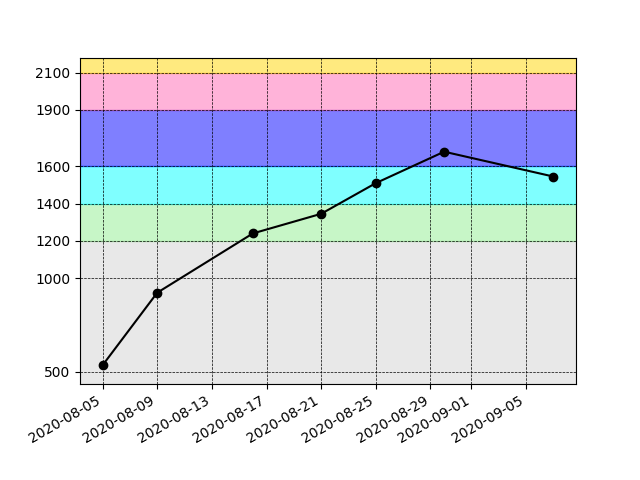
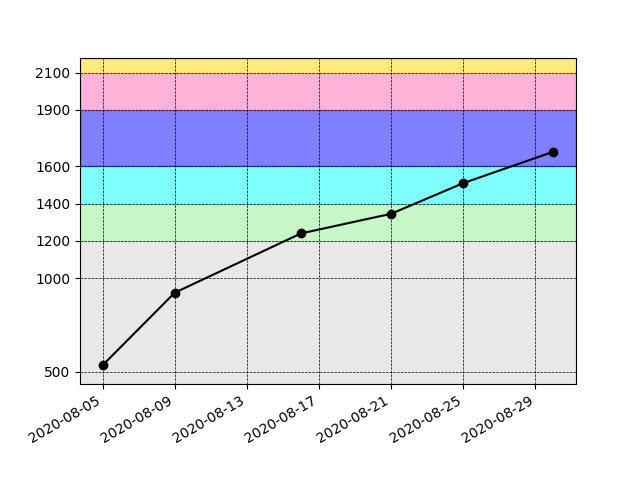
updated front page after rollback

diff --git a/README.md b/README.md
@@ -2,7 +2,7 @@
 
 Transcription of my submissions for the Codeforces contests: [https://codeforces.com](https://codeforces.com)
 
-Handle: [![](https://img.shields.io/badge/Specialist-Zwgtwz-cyan)](https://codeforces.com/profile/Zwgtwz)
+Handle: [![](https://img.shields.io/badge/Expert-Zwgtwz-blue)](https://codeforces.com/profile/Zwgtwz)
 
 All participations done in Rust.
 
@@ -12,6 +12,5 @@ All participations done in Rust.
 4.  [Codeforces Round #665 (Div. 2)](https://codeforces.com/contest/1401) as ![](https://img.shields.io/badge/Pupil-Zwgtwz-lightgreen) ![](https://img.shields.io/badge/-%2B105-green)
 5.  [Educational Codeforces Round 94 (Div. 2)](https://codeforces.com/contest/1400) as ![](https://img.shields.io/badge/Pupil-Zwgtwz-lightgreen) ![](https://img.shields.io/badge/-%2B164-green)
 6.  [Codeforces Round #666 (Div. 2)](https://codeforces.com/contest/1397) as ![](https://img.shields.io/badge/Specialist-Zwgtwz-cyan) ![](https://img.shields.io/badge/-%2B168-green)
-7.  [Codeforces Round #666 (Div. 2)](https://codeforces.com/contest/1405) as ![](https://img.shields.io/badge/Expert-Zwgtwz-blue) ![](https://img.shields.io/badge/---133-red)
 
 ![](.graph.png)
